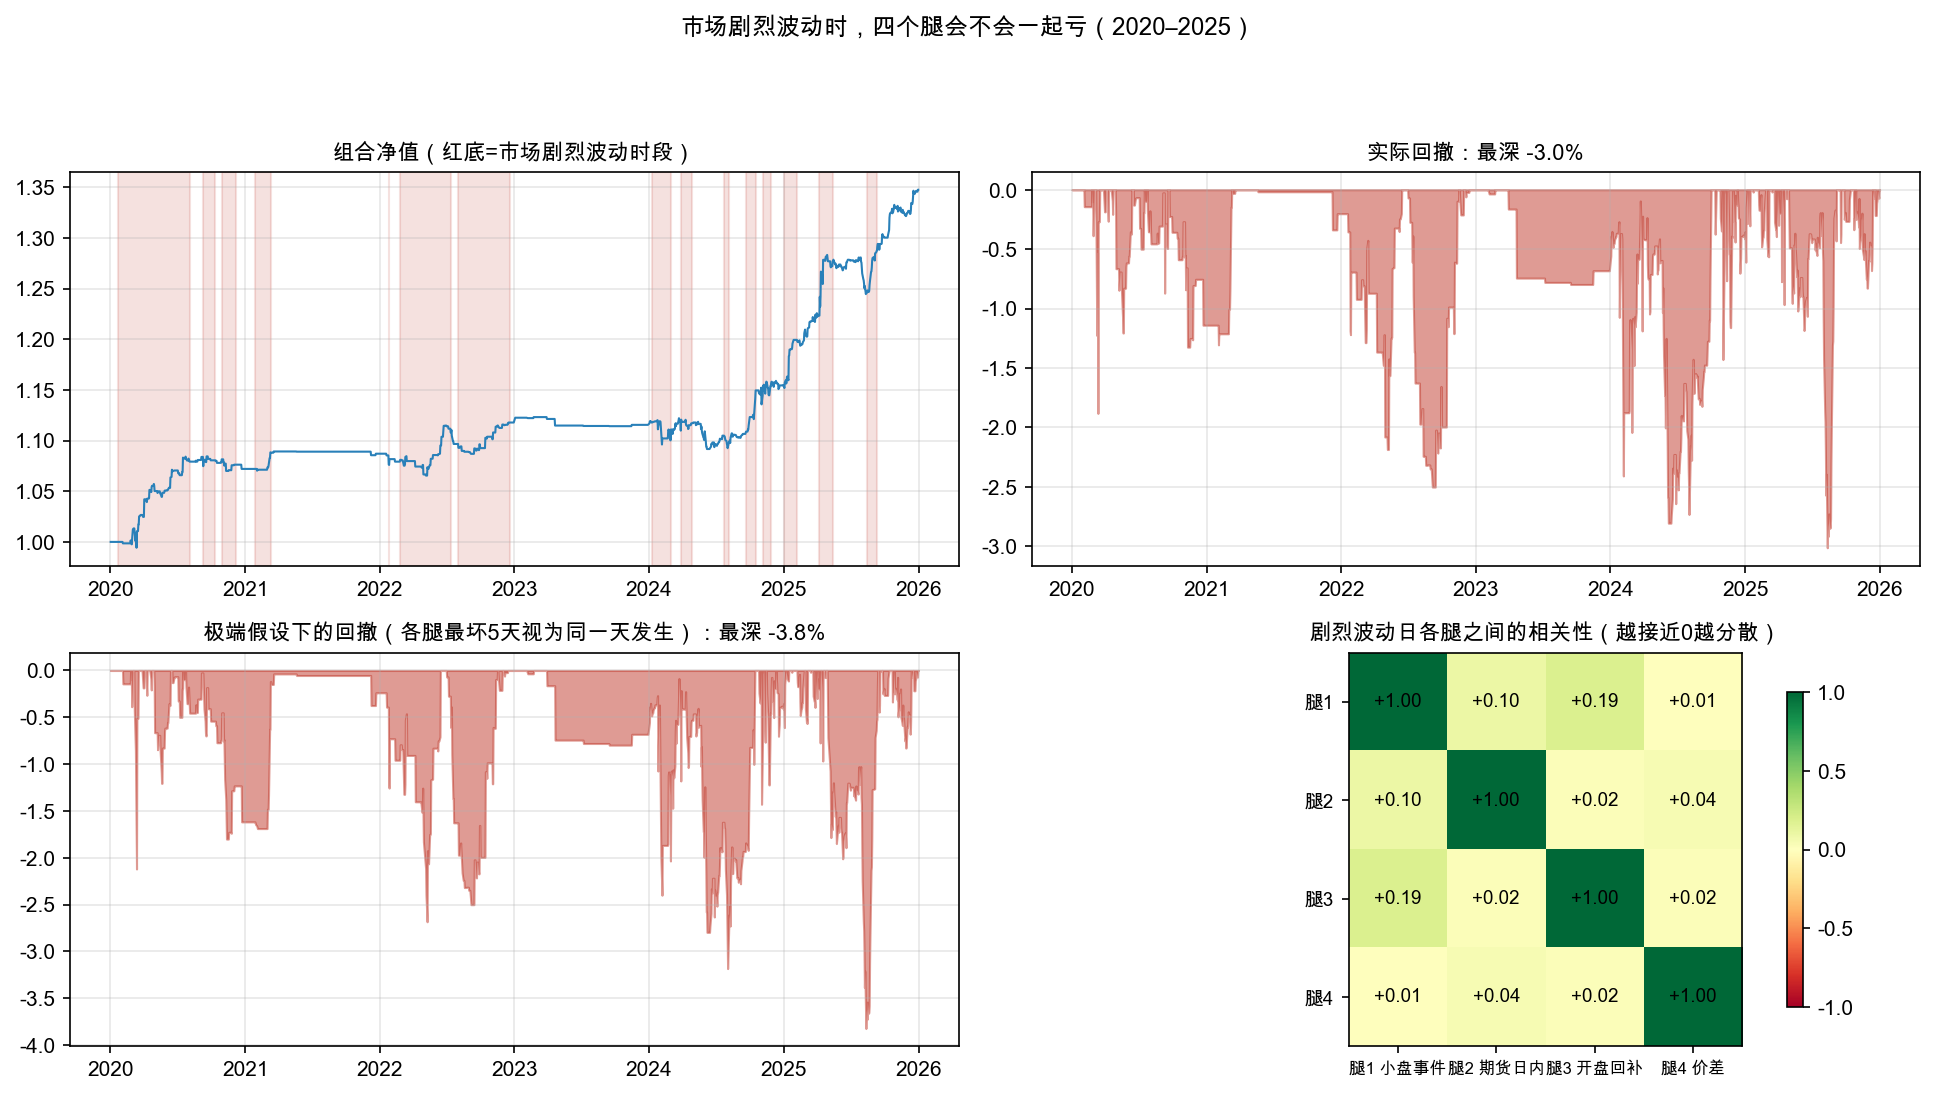
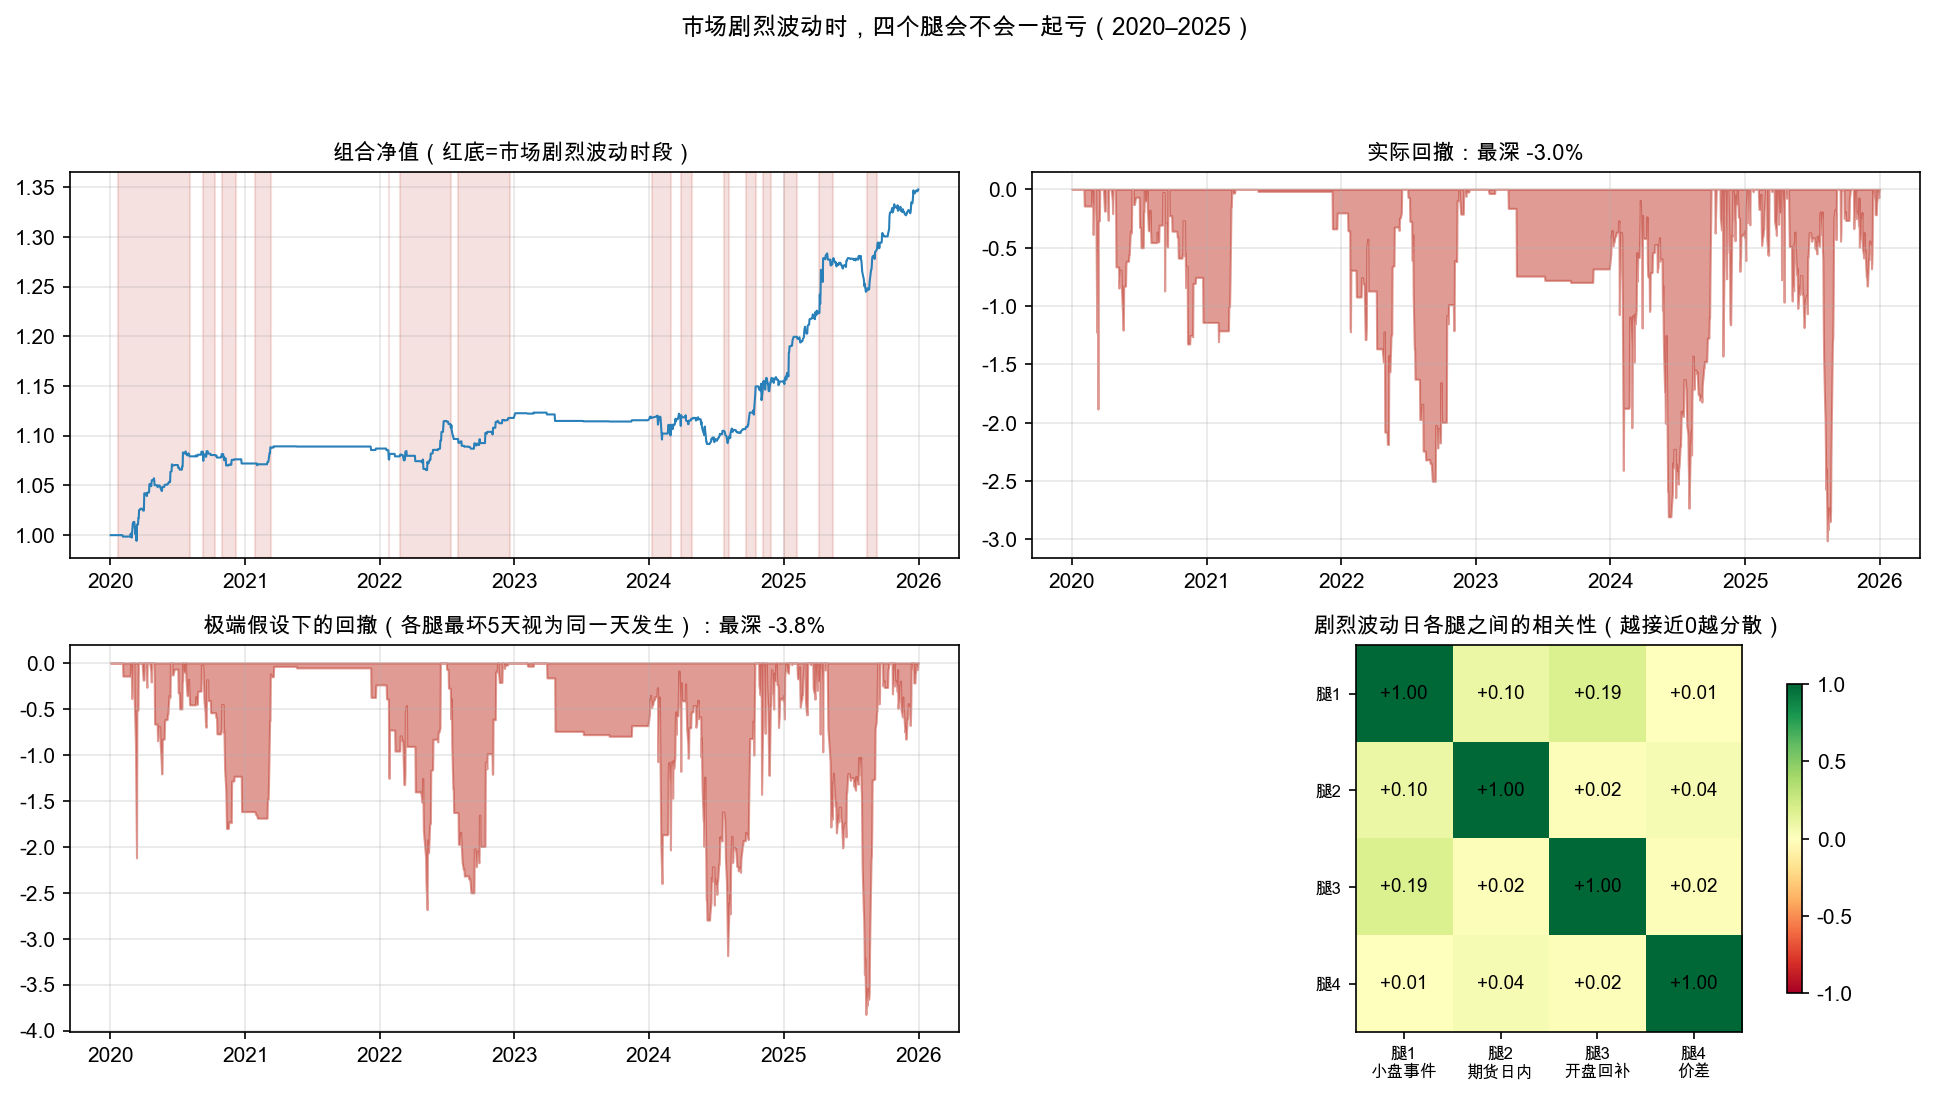
Add English figure set; English README now references figs/en

diff --git a/README.md b/README.md
@@ -102,8 +102,6 @@
 
 # English Version
 
-> Figure labels are in Chinese; the text below explains each chart.
-
 Two quant strategies from the same research line, both trading Chinese A-share index futures and cash equities, with holding periods from intraday to one day.
 **Strategy B is Strategy A's fourth leg taken out on its own**, so the two share one research pipeline — they are not two independent return sources.
 
@@ -125,7 +123,7 @@ An important fact: the anomaly is strong on index levels, but on futures prices 
 
 Evidence for the spread leg, below: the x-axis is the size of the overnight spread move, the y-axis is gross P&L per trade (before costs). Bigger overnight moves mean bigger intraday repair; the dashed lines are real cost levels under different execution styles — gross P&L must sit above the cost line to make money.
 
-![Spread leg: signal strength vs gross P&L per trade](figs/basis_spread_edge.png)
+![Spread leg: signal strength vs gross P&L per trade](figs/en/basis_spread_edge.png)
 
 ## 2. Rules
 
@@ -161,7 +159,7 @@ Each leg only fires when the expected return covers the trading cost; leg 4 size
 
 NAV and drawdown comparison of the two strategies (solid line ¥5M, dashed line ¥20M per leg; the grey dotted line on the right panel is the "extreme-assumption" book drawdown reference of −3.8% discussed later):
 
-![NAV and drawdown of both strategies](figs/combined_nav_dd.png)
+![NAV and drawdown of both strategies](figs/en/combined_nav_dd.png)
 
 ## 4. Robustness and Evidence Grade
 
@@ -174,7 +172,7 @@ NAV and drawdown comparison of the two strategies (solid line ¥5M, dashed line 
 
 **Do the legs fail together in crises?** Marking crisis days (large US/A-share moves, about 23% of the out-of-sample), the highest correlation between any two legs is 0.19, and days when multiple legs are open simultaneously are profitable on average (+23.7bp/day) — diversification does not break down in crises. But under a deliberately conservative assumption (each leg's worst consecutive 5 days inside every crisis window happen on the same days), the book's max drawdown deepens from −3.0% to **−3.8%**. We quote −3.8% as the risk number.
 
-![Crisis-day stress test](figs/crisis_cofire.png)
+![Crisis-day stress test](figs/en/crisis_cofire.png)
 
 ## 5. Capacity
 
@@ -192,7 +190,7 @@ NAV and drawdown comparison of the two strategies (solid line ¥5M, dashed line 
 
 Round-trip cost vs order size, by leg:
 
-![Round-trip cost vs notional](figs/exec_capacity.png)
+![Round-trip cost vs notional](figs/en/exec_capacity.png)
 
 ## 6. Data and Methodology
 
